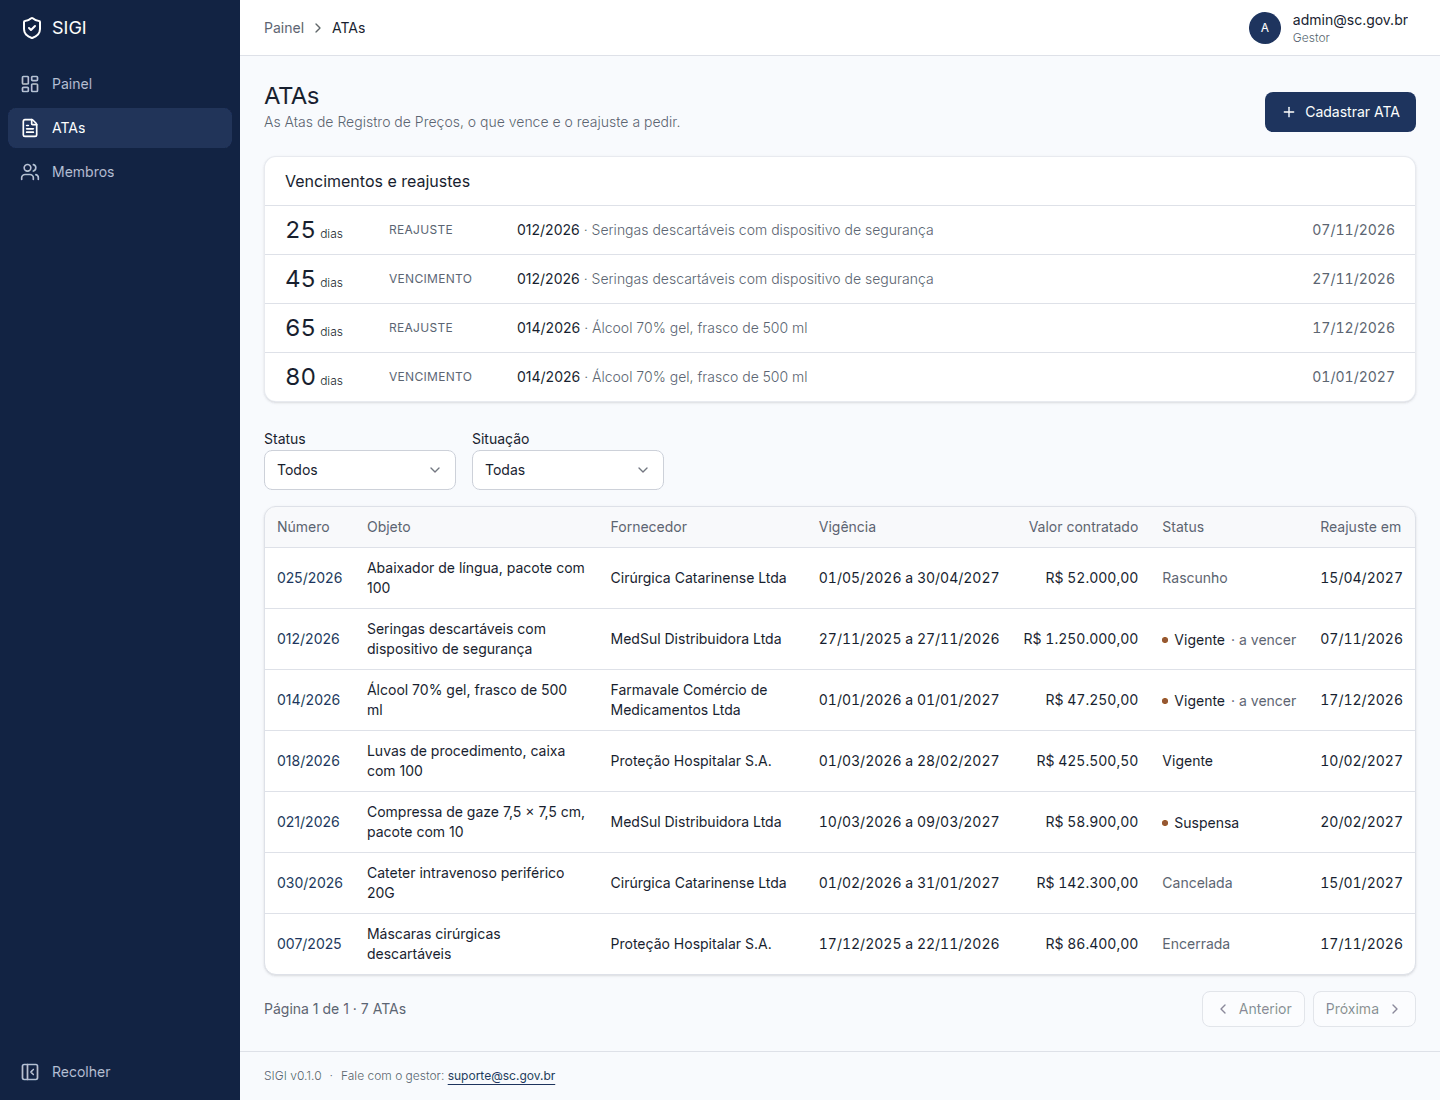
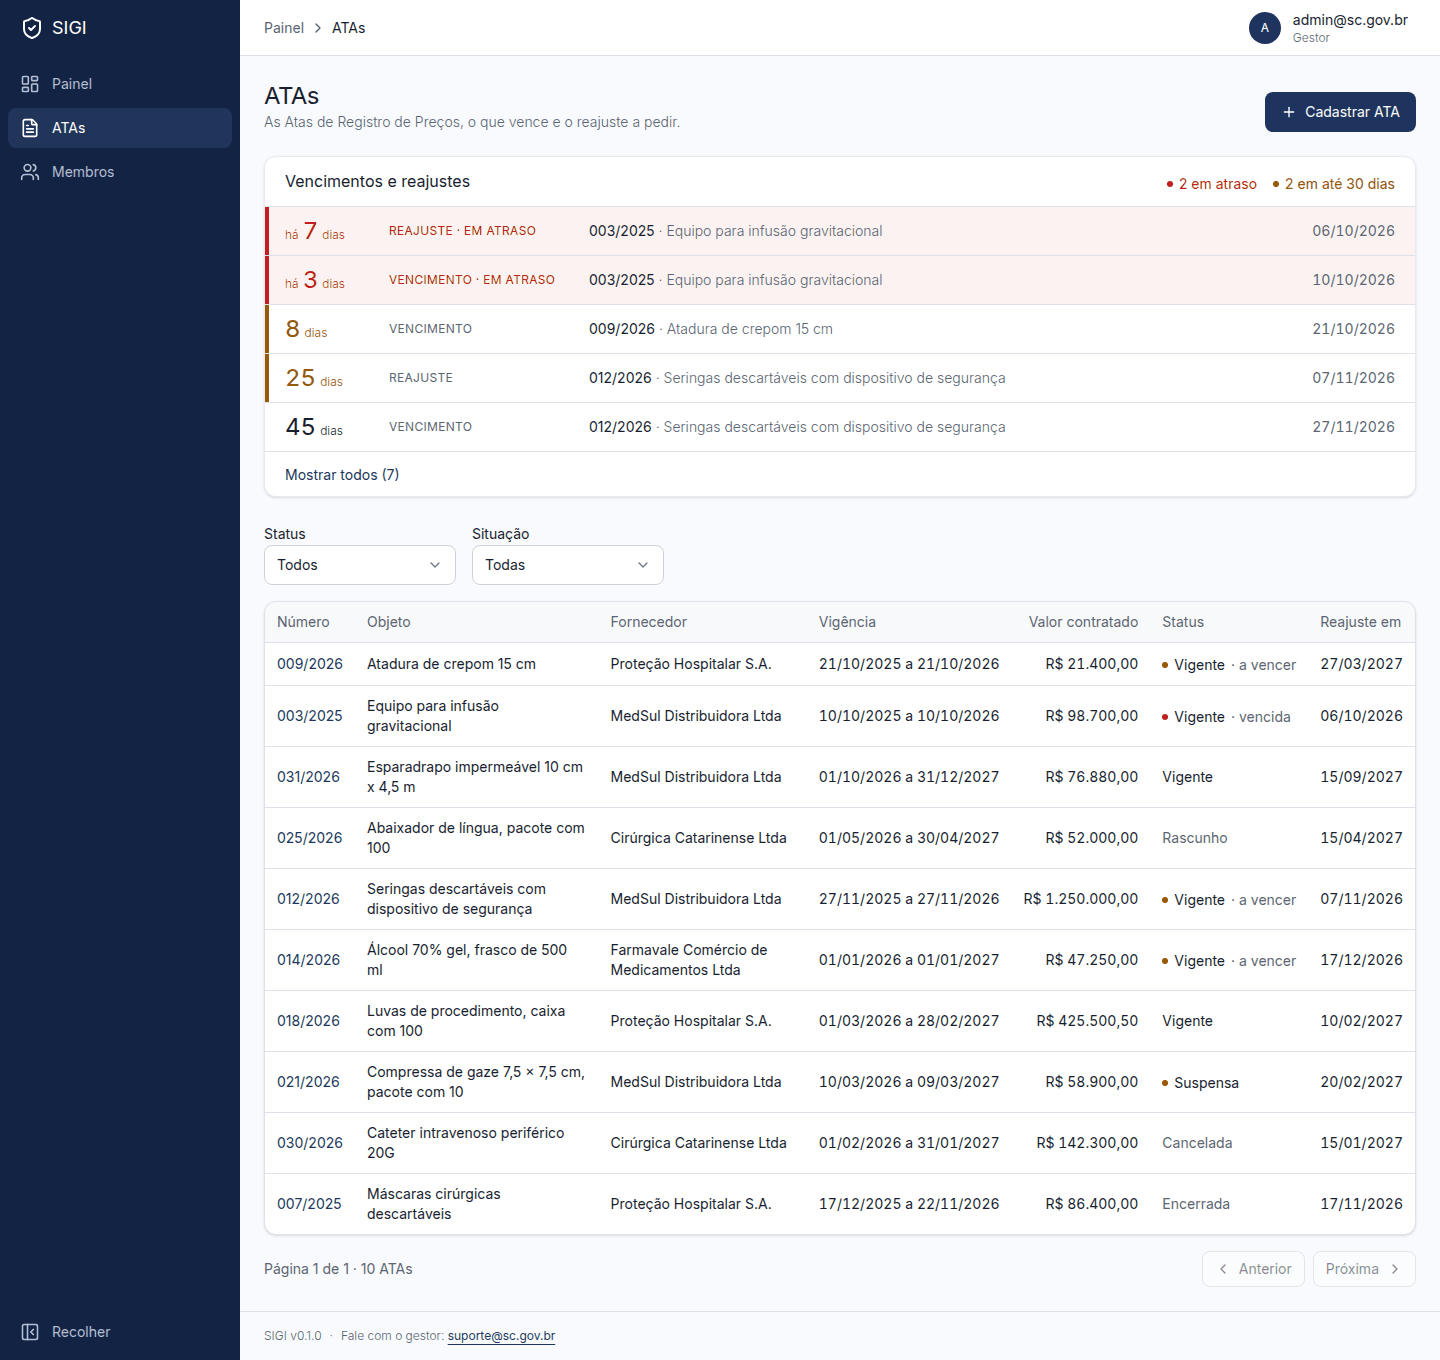
docs: show the urgency colours in the ATA user flow [SPEC-0013]
Claude-Session: https://claude.ai/code/session_019RhEfvDpREPTTn55Dme5Wi

diff --git a/docs/product/user-flows/atas.md b/docs/product/user-flows/atas.md
@@ -108,6 +108,18 @@ Sidebar → **ATAs**.
      reajuste recorded. Dated by the reajuste date. It leaves the list as soon
      as a pedido is recorded.
 
+   **Colour says how urgent a row is, before anything is read:**
+
+   | Row | Left bar | Days | Also |
+   | --- | --- | --- | --- |
+   | Date passed | Red | Red, "há 3 dias" | Faint red tint, "· em atraso" after the kind |
+   | Due within 30 days | Amber | Amber | — |
+   | Due later | None | Plain | — |
+
+   The title is followed by the count, for example "● 2 em atraso ● 2 em até 30
+   dias", so the answer is there before any row is read. The 30 days are an
+   assumption to confirm with the stakeholders (OQ-47).
+
    An ATA due on both counts appears twice, once per kind. The five most urgent
    show; "Mostrar todos (N)" shows the rest. When nothing is due, the block is
    one line: "Nenhum vencimento ou reajuste próximo."
